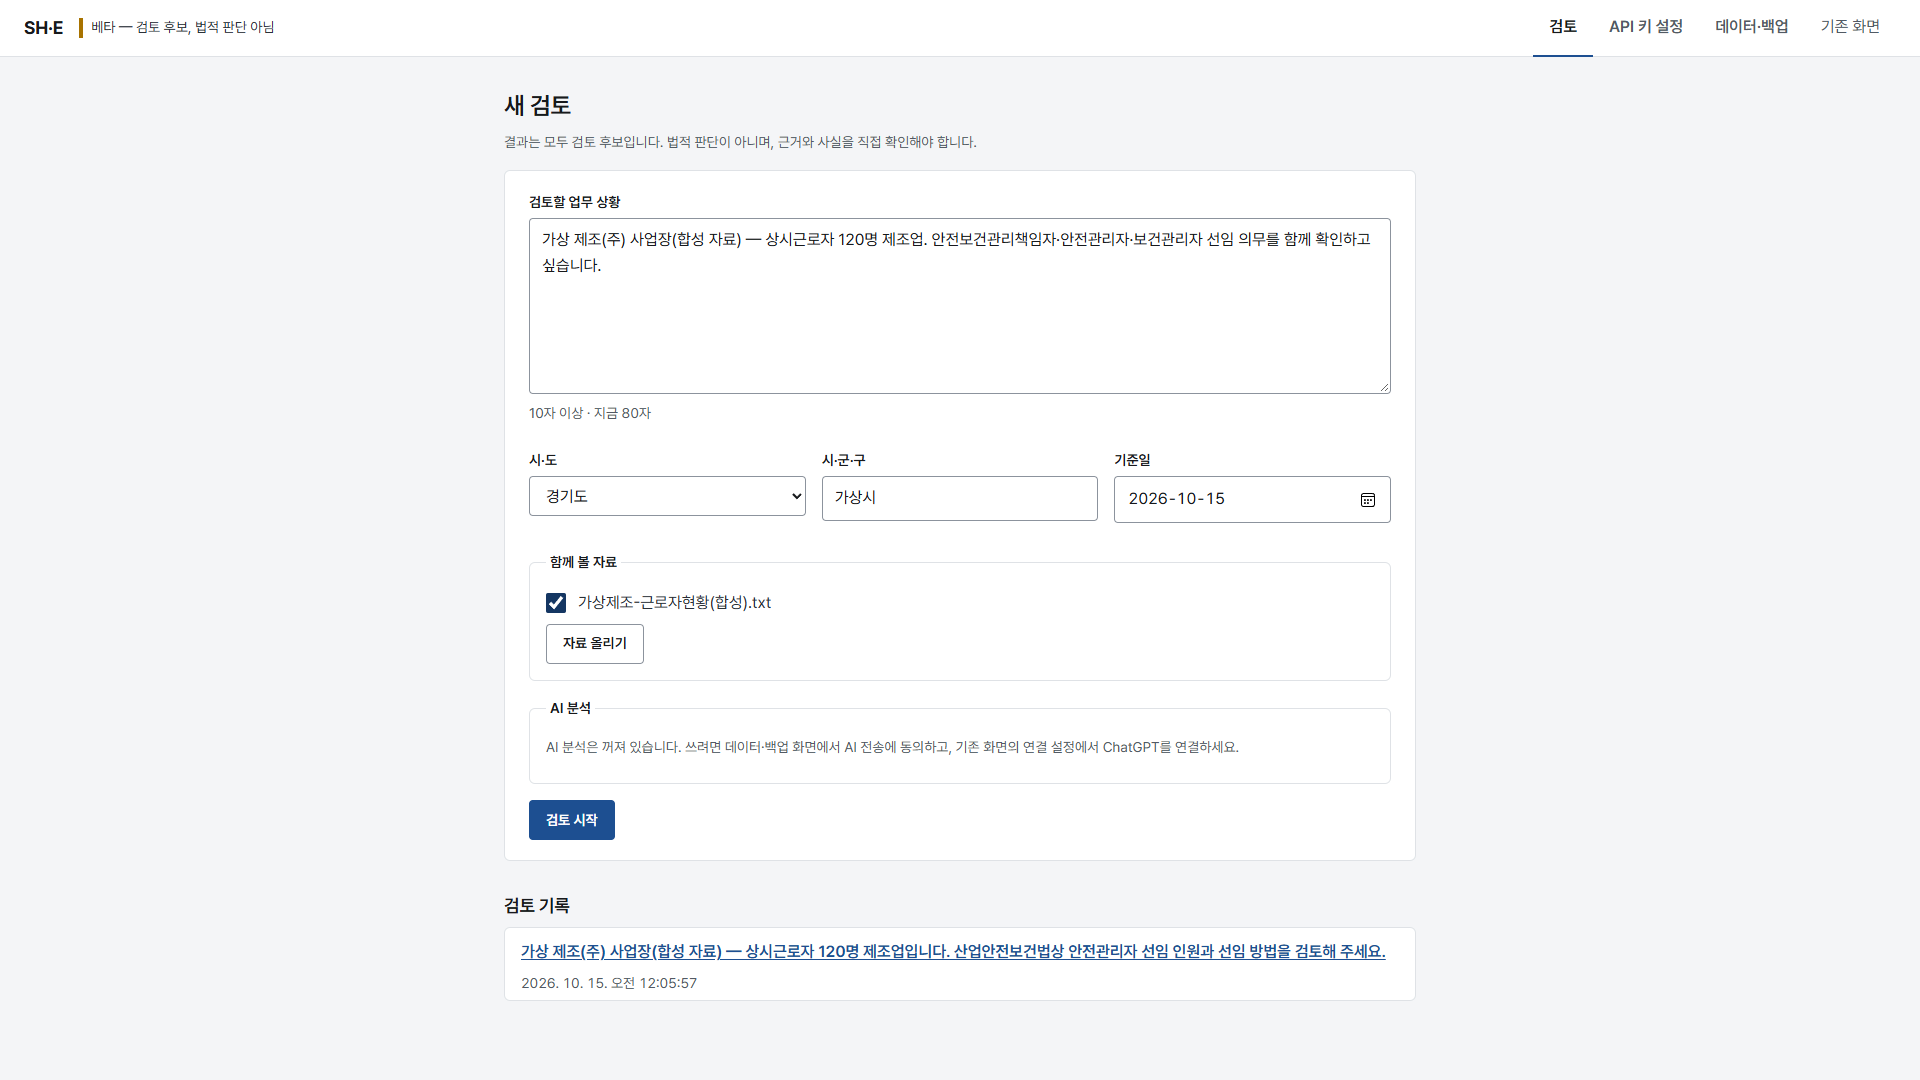
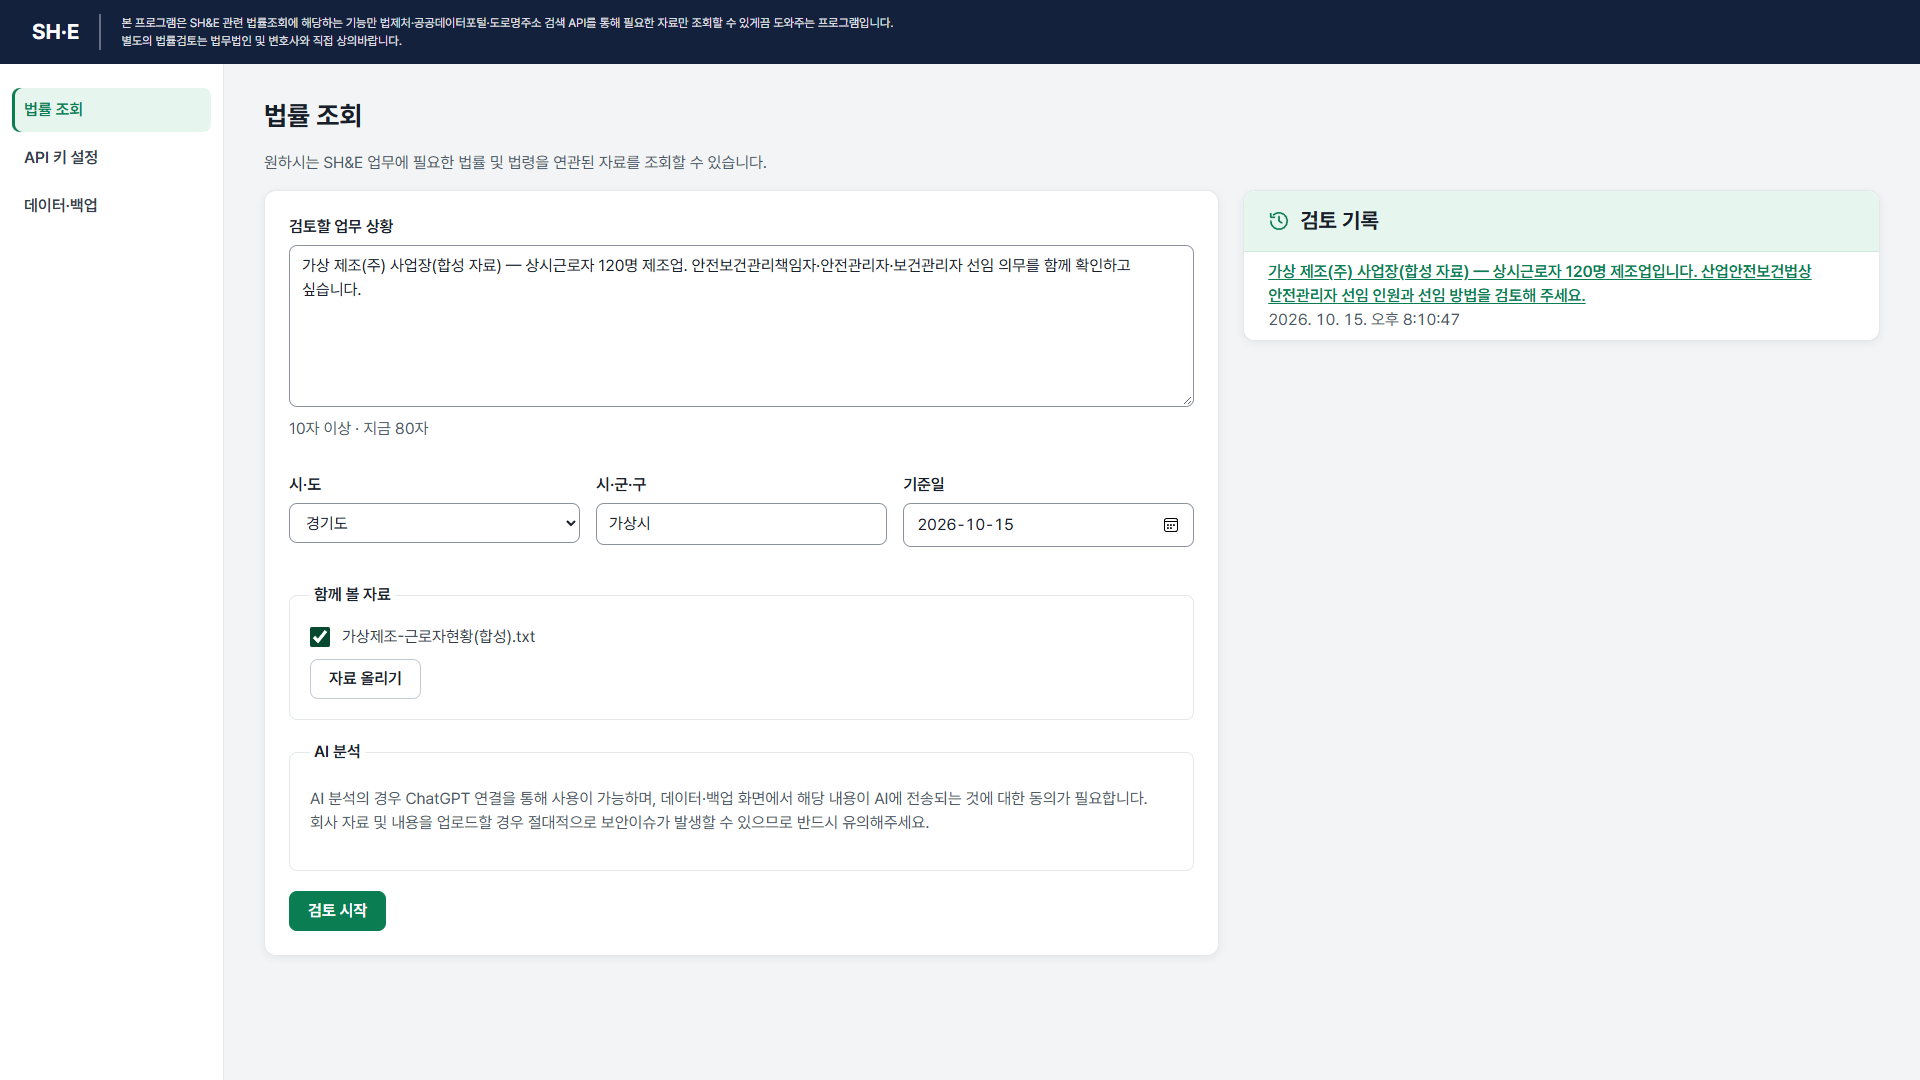
docs(v8): Store screenshots re-captured with the user-specified design (main 079f4e3) (#29)

diff --git a/docs/implementation-v8/stage5-store/screenshots/README.md b/docs/implementation-v8/stage5-store/screenshots/README.md
@@ -1,18 +1,18 @@
 # Microsoft Store 스크린샷 (v8 베타)
 
-- 크기: 1920x1080 PNG 6장 (뷰포트 1920x1080, 배율 1, 전체 페이지 아님)
-- 합성 자료로 촬영: 가상 사업장 "가상 제조(주)", 합성 첨부 파일 1개. 실제 회사 자료·API 키 없음(키 전부 미연결).
-- 촬영일: 2026-10-15 (베타 화면 개편 뒤 6장 모두 다시 촬영. 개편 내용은 `../../beta-redesign.md`)
-- 촬영 방법: 새 임시 자료 폴더(`SHE_DATA_DIR`)·`SHE_INSTALLED=1`·서버 외부 요청 차단(`.local/store-shots/no-net.mjs`) 상태로 서버를 띄우고, `.local/store-shots/capture-store-v2.mjs`(Playwright, Edge 헤드리스)로 `/beta/` 화면을 찍음 — 서버·브라우저 모두 외부 요청 0건, 화면 오류 0건. 촬영 뒤 서버 종료, 임시 자료 폴더 삭제.
-- 촬영 스크립트가 장마다 화면 안에 라벨 전문("베타 — 검토 후보, 법적 판단 아님" 또는 "검토 후보 — 법적 판단 아님, 베타")이 있는지 확인했고, 6장 모두 눈으로도 확인했다. 경로·사용자 이름·메일 주소는 보이지 않는다. 피드백 화면은 없다(삭제됨).
+- 크기: 1920x1080 PNG 6장 (뷰포트 1920x1080, 배율 1, 전체 페이지 아님, 한국어 로캘)
+- 합성 자료로 촬영: 가상 사업장 "가상 제조(주)", 합성 첨부 파일 1개, 사실 보완 답도 합성 문구. 실제 회사 자료·API 키 없음(키 전부 미연결).
+- 촬영일: 2026-10-15 (화면 기준: main `079f4e3` — 사용자 디자인 반영 베타 화면. 6장 모두 다시 촬영)
+- 촬영 방법: 새 임시 자료 폴더(`SHE_DATA_DIR`)·`SHE_INSTALLED=1`·키 없음·서버 외부 요청 차단(`.local/store-shots/no-net.mjs`)으로 서버를 띄우고 `.local/store-shots/capture-store-v3.mjs`(Playwright, Edge 헤드리스)로 `/beta/` 화면을 찍음 — 서버·브라우저 모두 외부 요청 0건, 화면 오류 0건. 촬영 뒤 서버 종료, 임시 자료 폴더 삭제.
+- 화면 조작은 클릭·입력·스크롤 같은 사용자 동작만 했다(안전관리자 판정 미리보기는 데이터·백업 화면의 스위치로 켬). 6장 모두 눈으로 확인했다. 경로·사용자 이름·메일 주소·오류 문구는 보이지 않는다.
 
 | 파일 | 화면 이름 | 보이는 내용 |
 |---|---|---|
-| `01-review-result.png` | 검토 결과 (판정 후보) | 머리글의 베타 문장, 결과 고지 띠("검토 후보 — 법적 판단 아님, 베타", 안전관리자 미리보기 켜짐), 요약 줄(판정 후보 1건·확인 필요·근거 확인 필요 건수)과 내보내기 버튼, 판정 카드(상태 표시·"검토 후보 · 베타" 표시·근거 조문·법률 기준일·승인, 추가로 확인할 것, 다음 조치), 왼쪽 목차 |
-| `02-new-review.png` | 새 검토 | 업무 상황 입력(글자 수 안내), 시·도/시·군·구/기준일, 합성 첨부 자료 선택, AI 분석 꺼짐 안내, 검토 기록 1건 |
-| `03-api-keys.png` | API 키 설정 | 법제처 OC·공공데이터포털·도로명주소 키 모두 "미연결 — 수집 안 됨"(점선 표시), 발급처 안내, 저장 버튼이 비활성인 이유 |
-| `04-data-notice.png` | 데이터 처리 안내 | 베타 라벨, 접속 범위·저장 암호화·외부 통신·AI 분석·보존·삭제·오류 기록·암호화 백업 항목(항목별 시험 ID) |
-| `05-backup.png` | 백업 내보내기·가져오기 | 암호화 백업 내보내기 완료 문구, 백업 가져오기, AI 전송 동의(꺼짐), 안전관리자 판정 미리보기 켜짐(설명에 "검토 후보 — 법적 판단 아님, 베타" 라벨), 보존·삭제 |
-| `06-fact-check.png` | 사실 보완·근거 확인 | 사실 보완 질문과 비활성 이유, "근거 확인이 필요한 부분"을 펼쳐 법령별로 묶은 목록(개수 표시), 왼쪽 목차 아래 라벨 "검토 후보 — 법적 판단 아님, 베타" |
+| `01-review-result.png` | 검토 결과 (검토 후보) | 제목 "검토 후보"와 괄호 안 안내("검토 후보 — 법적 판단 아님, 베타" · 근거와 사실 확인 · 안전관리자 미리보기 켜짐), 검토 요청 카드, 요약 줄(판정 후보 1건·자료·사실 확인 필요·근거 확인 필요 건수)과 내보내기 버튼, 왼쪽 목록(판정 후보·사실 보완·자가 검토·내보내기), 오른쪽 첫 판정 후보 상세("검토 후보 · 베타" 표시·근거 조문·법률 기준일·승인, 추가로 확인할 것, 다음 조치) |
+| `02-new-review.png` | 법률 조회 | 업무 상황 입력(글자 수 안내), 시·도/시·군·구/기준일, 합성 첨부 자료 선택, AI 분석 안내, 검토 시작 버튼, 옆의 검토 기록 1건 |
+| `03-api-keys.png` | API 키 설정 (위) | 안내 문구, 법제처 OC·공공데이터포털·도로명주소 키 모두 "미연결 — 수집 안 됨"(점선 표시), 발급처, 저장 버튼이 비활성인 이유 |
+| `04-ai-link.png` | API 키 설정 (아래) | 도로명주소 키와 서비스 표(미연결), 법령 수집(자동 수집 꺼짐, 키가 없어 수집할 수 없는 이유), AI 연동("ChatGPT 연결하기", "아직 미연동된 상태입니다") |
+| `05-backup.png` | 데이터·백업 | 데이터 처리 안내 6~10번 항목, 암호화 백업 내보내기 완료 문구, 백업 가져오기, AI 분석 전송 동의(꺼짐), 안전관리자 판정 미리보기(켜짐, 설명에 "검토 후보 — 법적 판단 아님, 베타"), 보존·삭제 |
+| `06-fact-check.png` | 검토 결과 — 사실 보완 | 왼쪽 목록에서 사실 보완 선택, 검토에 쓴 사실 표, "더 알려 주면 좋은 사실" 6개에 합성 답 입력(제출 안 함), 보완해서 다시 검토 버튼, 접힌 "근거 확인이 필요한 부분" |
 
-- 모든 장에 베타 라벨 전문이 보인다(01~04는 머리글의 베타 문장, 01은 고지 띠에도, 05는 미리보기 설명, 06은 목차 아래 라벨).
+- "검토 후보 — 법적 판단 아님, 베타" 문구가 화면 안에 보이는 장: 01(제목 옆 괄호 안내), 05(미리보기 설명). 02·03·04·06에는 없다 — 사용자 디자인에 따라 프로그램의 베타 문구는 결과 화면의 제목 안내와 카드 표시("검토 후보 · 베타")에만 있고, 06은 결과 화면을 목록 위치까지 내려 찍어 제목 안내가 화면 밖에 있다.
